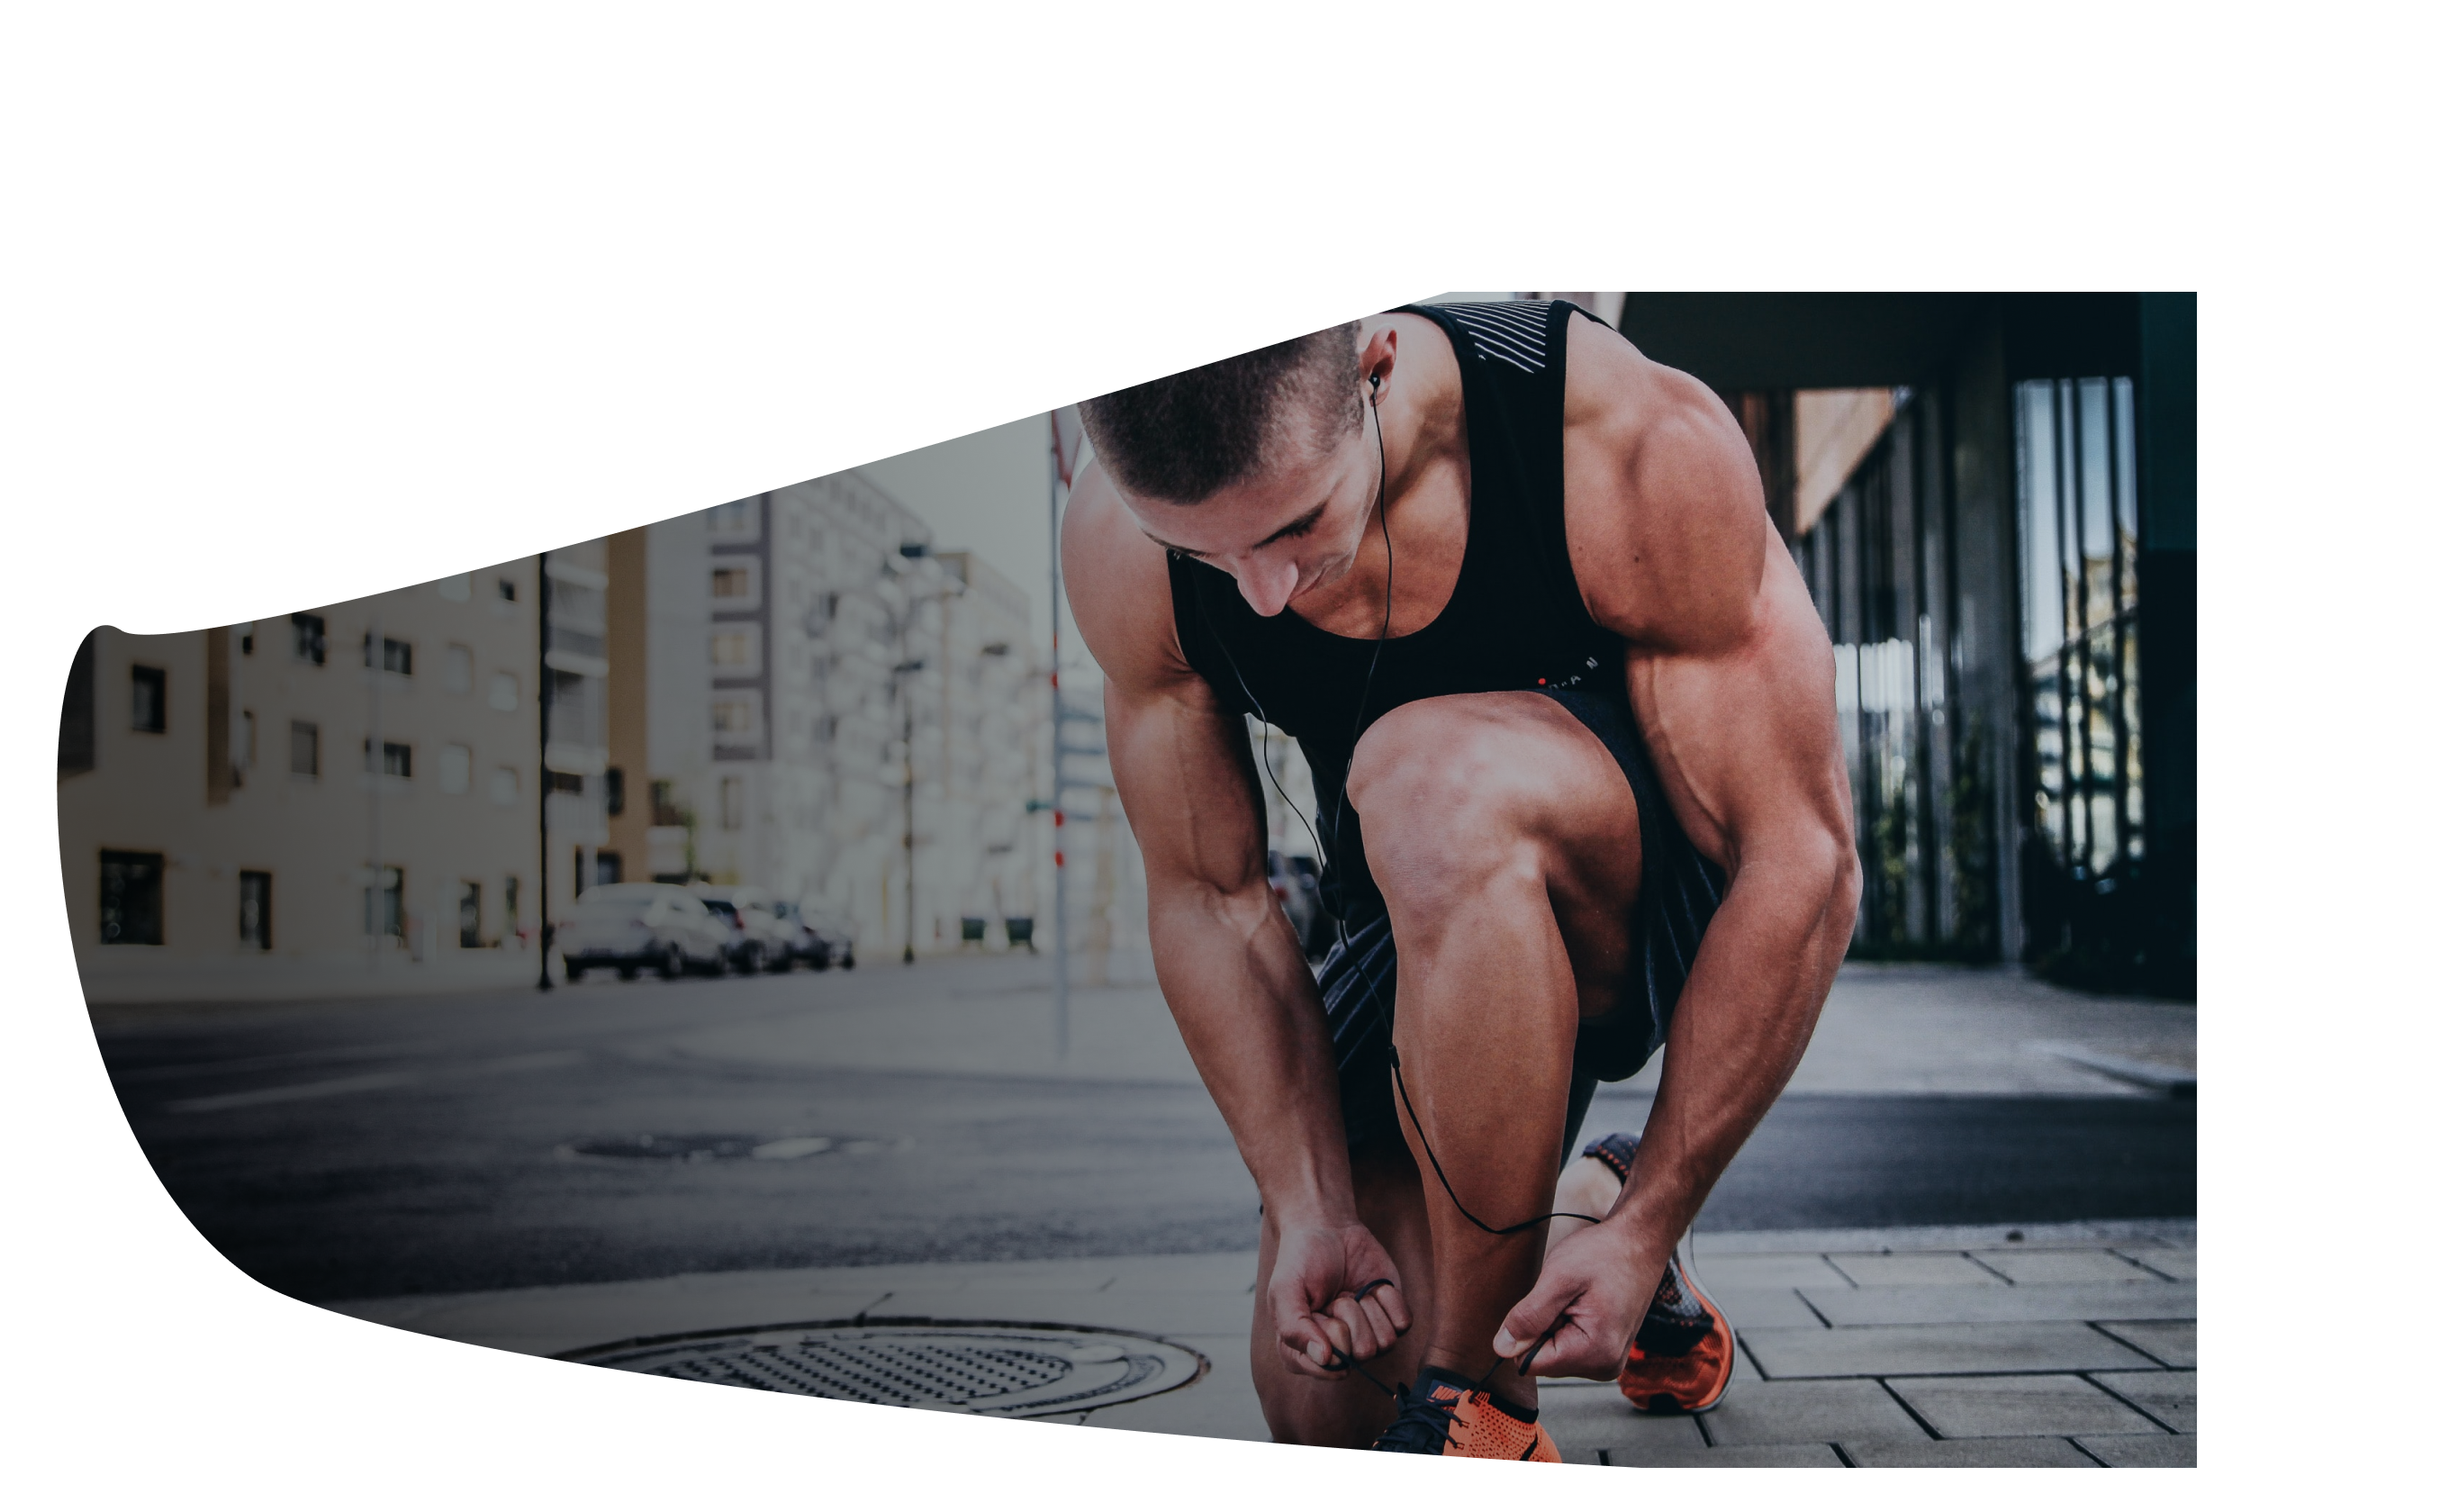
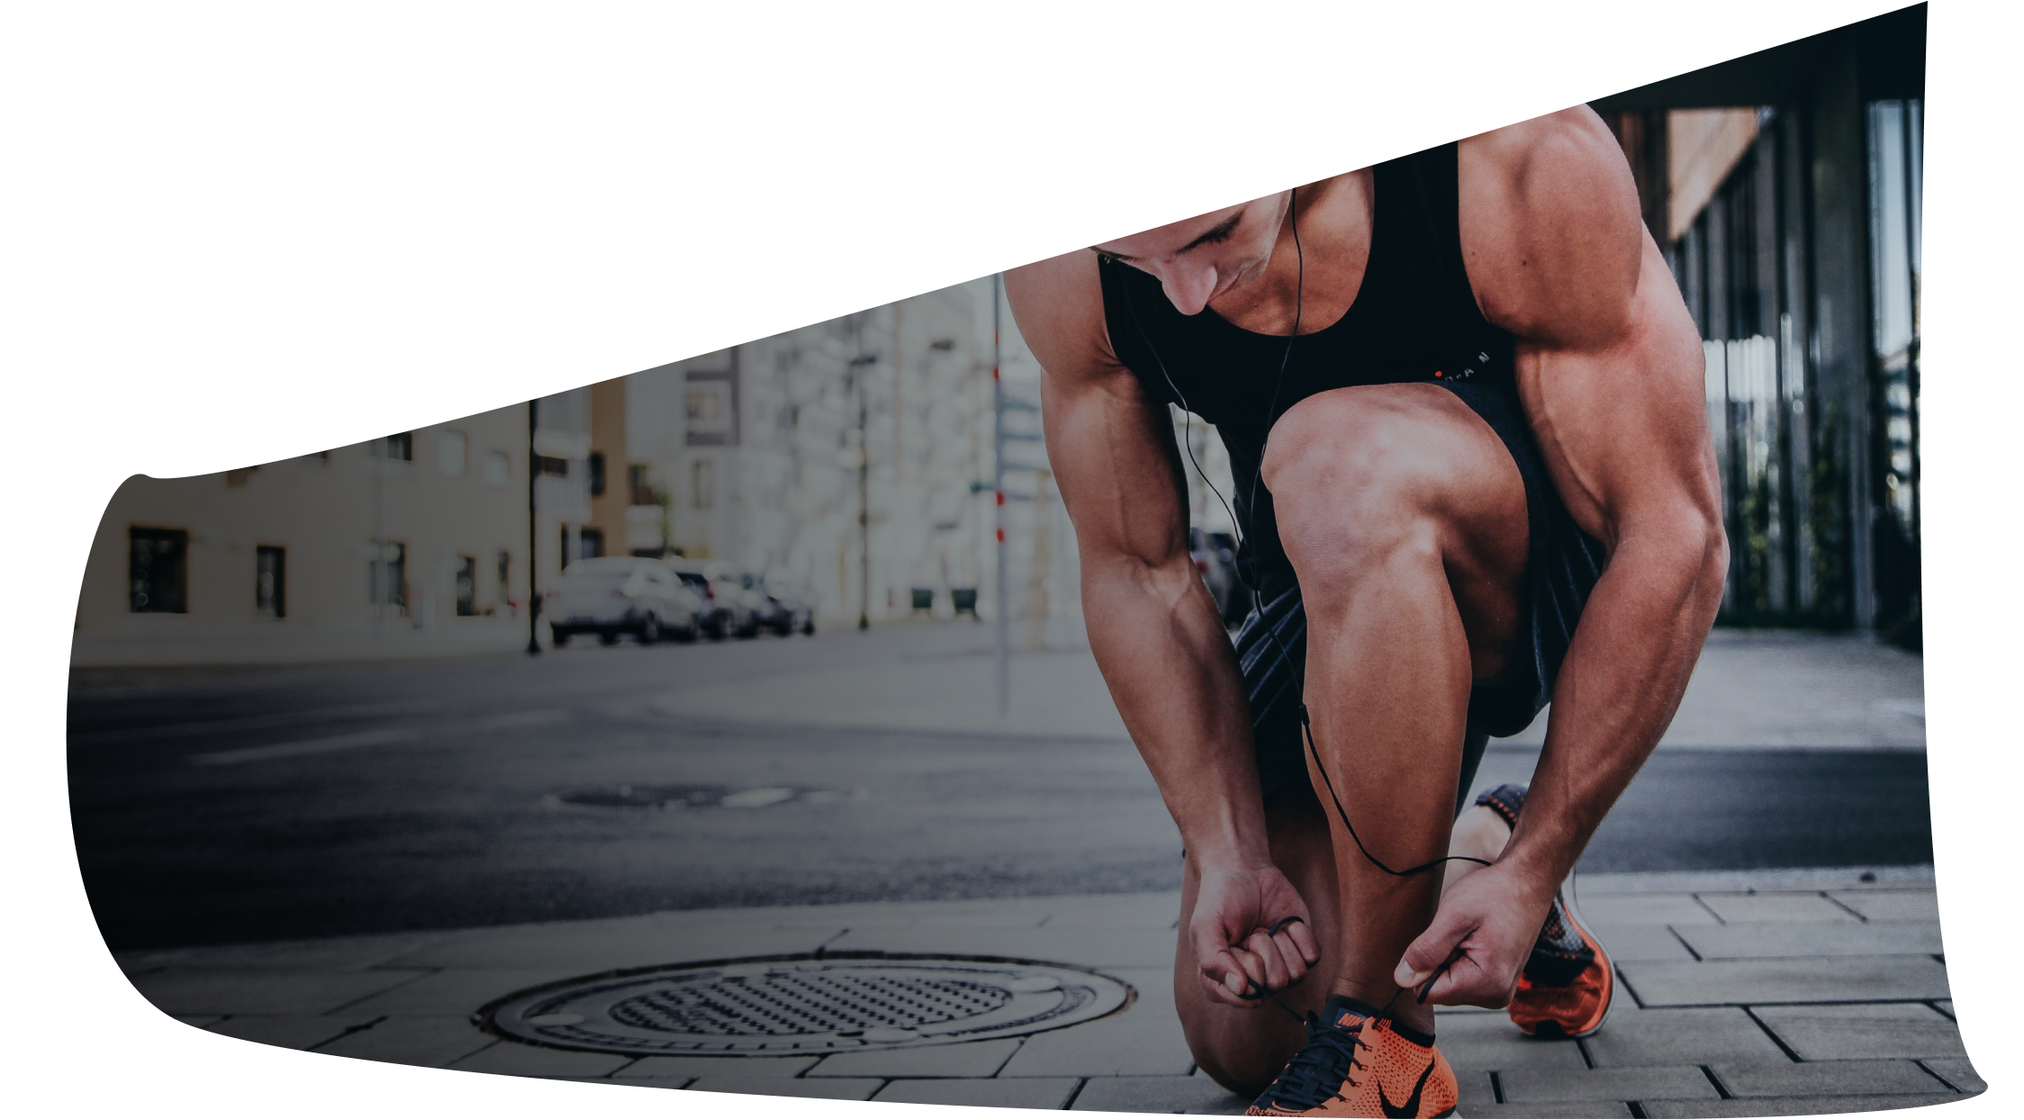
hero section layout complete

diff --git a/public/style.css b/public/style.css
@@ -8,18 +8,19 @@
 html,
 body,
 .wrapper {
+  max-width: 1800px;
   background: #191414;
   margin: 0 auto;
 }
 
 body {
-  font-family:Arial, Helvetica, sans-serif;
+  font-family: Arial, Helvetica, sans-serif;
 }
 
 nav {
   margin: 0 auto;
   margin-top: 60px;
-  max-width: 1800px;
+  /* max-width: 1800px; */
   display: flex;
   justify-content: space-between;
   color: #ffffff;
@@ -27,19 +28,54 @@ nav {
   line-height: 3;
   font-size: 1.2rem;
 }
-.nav_left{
+.nav_left {
   display: flex;
 }
-.nav_left a{
+.nav_left a {
   margin-right: 60px;
 }
-.nav_links{
+.nav_links {
   color: rgba(189, 189, 189, 0.55);
 }
-.hero_section{
-  
+.hero_section {
+  display: flex;
+  flex-direction: column;
+  position: relative;
+  margin-top: 130px;
+  margin-bottom: 100px;
 }
-.signup_btn{
+.hero_section__img {
+  /* max-width: 1200px; */
+}
+.hero_section__text{
+  max-width: max-content;
+  position: absolute;
+  margin: 220px 0px 0px 110px;
+  /* transform: translate(-50%, -50%); */
+}
+.hero_section__text h1 {
+  font-size: 6em;
+  color: rgba(199, 88, 68, 0.96);
+  max-width: 600px;
+  line-height: 80px;
+  font-weight: 900;
+  margin-bottom: 30px;
+}
+.hero_section__text p {
+  font-size: 2em;
+  color: #d7d7d7;
+  max-width: 450px;
+  margin-bottom: 100px;
+}
+.hero_section__text a {
+  color: #f2f2f2;
+  padding: 30px 100px;
+  font-size: 1.5em;
+  border-radius: 2px;
+  text-transform: uppercase;
+  background:rgba(199, 88, 68, 0.96);
+}
+.signup_btn {
   padding: 15px 40px;
   font-size: 1em;
   border-radius: 2px;
@@ -55,7 +91,7 @@ a:visited {
   color: inherit;
 }
 
-nav a:hover{
+nav a:hover {
   opacity: 0.7;
 }
 
